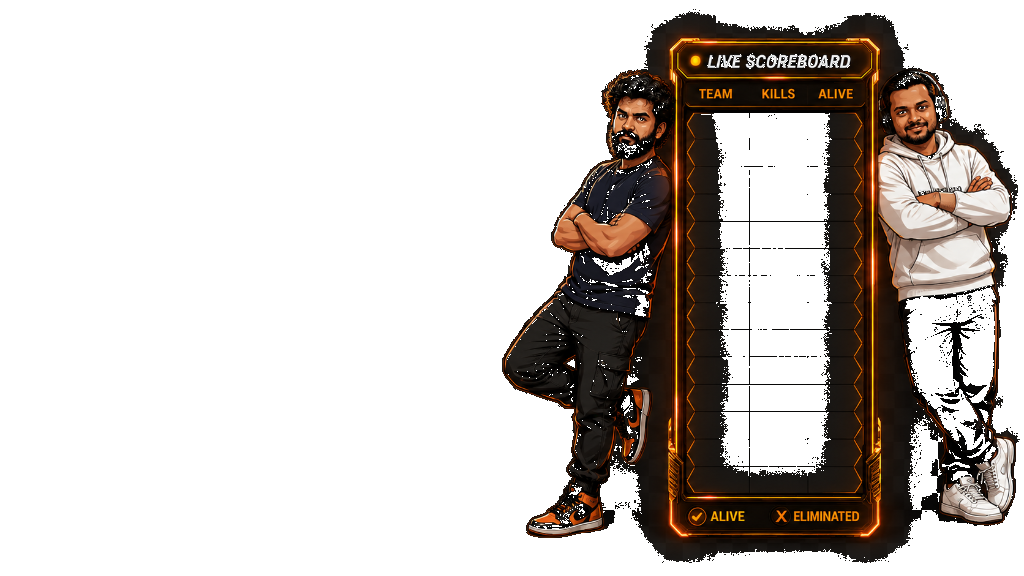
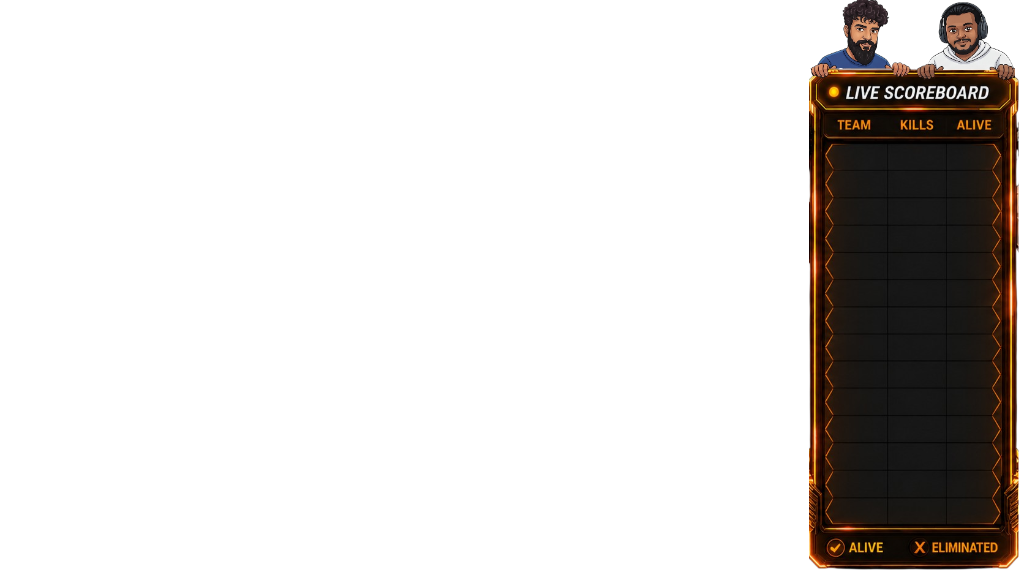
Replace scoreboard background with new narrow board image, update CSS and HTML to align elements

Changed region(s): [[0.4688, 0.0, 1.0, 1.0]]

diff --git a/ASSETS/templates/tournament/LIVE_SCOREBOARD.html b/ASSETS/templates/tournament/LIVE_SCOREBOARD.html
@@ -20,29 +20,37 @@
     /* ── Main Scoreboard Panel (Right Side) ────────────────────────── */
     #scorePanel {
       position: absolute;
-      top: 2vh;
-      right: 0.5vw;
-      transform: translateX(120%);
+      top: 0;
+      left: 0;
+      width: 100vw;
+      height: 100vh;
+      transform: translateX(100vw);
       opacity: 0;
-      width: 50.5vw;
-      height: 96vh;
       background: url('/media/scoreboard_bg.png') no-repeat;
-      background-size: 198.06% 100%;
-      background-position: right top;
+      background-size: 100% 100%;
+      background-position: center;
+      pointer-events: none;
+      display: block; /* No longer flex */
+      overflow: hidden;
+    }
+
+    /* ── Inner content container aligned over the panel graphic ── */
+    .panel-content {
+      position: absolute;
+      top: 13.5vh;
+      left: 80.2vw;
+      width: 18.4vw;
+      height: 80vh;
       display: flex;
       flex-direction: column;
       overflow: visible;
-      padding-top: 12.5vh; /* Push below peaking characters */
-      padding-left: 2.2vw;
-      padding-right: 2.2vw;
-      padding-bottom: 2.5vh;
     }
 
     /* ── Header ────────────────────────────────────────────────────── */
     #panelHeader {
       background: transparent;
       border-bottom: none;
-      padding: 0.8vh 0.5vw;
+      padding: 0.8vh 0;
       display: flex;
       align-items: center;
       justify-content: space-between;
@@ -51,7 +59,7 @@
 
     #panelTitle {
       font-family: 'Orbitron', sans-serif;
-      font-size: 1.35vw;
+      font-size: 1.0vw;
       font-weight: 900;
       color: #ffa040;
       letter-spacing: 2px;
@@ -63,15 +71,15 @@
       display: flex;
       align-items: center;
       gap: 6px;
-      font-size: 0.9vw;
+      font-size: 0.7vw;
       font-weight: 700;
       color: #ffa040;
       letter-spacing: 1px;
     }
 
     #liveDot {
-      width: 0.6vw;
-      height: 0.6vw;
+      width: 0.5vw;
+      height: 0.5vw;
       background: #ff8800;
       border-radius: 50%;
       box-shadow: 0 0 8px #ff8800;
@@ -86,8 +94,8 @@
     /* ── Column Headers (Team | Kills | Alive) ──────────────── */
     #colHeaders {
       display: grid;
-      grid-template-columns: 1fr 6vw 10vw;
-      padding: 0.8vh 0.5vw;
+      grid-template-columns: 1fr 2.5vw 4.5vw;
+      padding: 0.8vh 0;
       border-bottom: none;
       background: transparent;
       flex-shrink: 0;
@@ -95,7 +103,7 @@
 
     .col-hdr {
       font-family: 'Orbitron', sans-serif;
-      font-size: 1.1vw;
+      font-size: 0.8vw;
       font-weight: 700;
       color: #ffa040;
       letter-spacing: 1.5px;
@@ -119,8 +127,8 @@
 
     .team-row {
       display: grid;
-      grid-template-columns: 1fr 6vw 10vw;
-      padding: 0.6vh 0.5vw;
+      grid-template-columns: 1fr 2.5vw 4.5vw;
+      padding: 0.6vh 0;
       align-items: center;
       border-bottom: 1px solid rgba(255, 100, 0, 0.08);
       transition: background 0.4s ease;
@@ -141,7 +149,7 @@
     }
 
     .team-name-cell {
-      font-size: 1.25vw;
+      font-size: 0.95vw;
       font-weight: 700;
       color: #eeeeee;
       letter-spacing: 0.4px;
@@ -157,7 +165,7 @@
     }
 
     .kills-cell, .points-cell, .alive-cell {
-      font-size: 1.2vw;
+      font-size: 0.9vw;
       font-weight: 700;
       text-align: center;
       font-family: 'Orbitron', sans-serif;
@@ -178,12 +186,12 @@
     .alive-cell {
       color: #ffffff;
       letter-spacing: 1px;
-      font-size: 1.05vw;
+      font-size: 0.85vw;
     }
 
     .alive-cell.zero {
       color: #ff1744;
-      font-size: 1.05vw;
+      font-size: 0.85vw;
       letter-spacing: 1px;
       text-shadow: 0 0 8px rgba(255, 23, 68, 0.6);
     }
@@ -191,7 +199,7 @@
     /* ── Footer Stats ──────────────────────────────────────────────── */
     #panelFooter {
       border-top: none;
-      padding: 1.2vh 0.5vw 0 0.5vw;
+      padding: 1.2vh 0 0 0;
       display: flex;
       justify-content: space-between;
       align-items: center;
@@ -200,14 +208,14 @@
     }
 
     #aliveCount {
-      font-size: 1.15vw;
+      font-size: 0.85vw;
       color: #ffa040;
       font-weight: 700;
       letter-spacing: 1px;
     }
 
     #elimCount {
-      font-size: 1.15vw;
+      font-size: 0.85vw;
       color: #ffa040;
       font-weight: 700;
       letter-spacing: 1px;
@@ -788,26 +796,28 @@
 
   <!-- RIGHT SIDE SCOREBOARD PANEL -->
   <div id="scorePanel">
-    <div id="panelHeader">
-      <div id="panelTitle">🟠 LIVE SCOREBOARD</div>
-      <div id="liveIndicator">
-        <div id="liveDot"></div>
-        LIVE
+    <div class="panel-content">
+      <div id="panelHeader">
+        <div id="panelTitle">🟠 LIVE SCOREBOARD</div>
+        <div id="liveIndicator">
+          <div id="liveDot"></div>
+          LIVE
+        </div>
       </div>
-    </div>
 
-    <!-- 3 Columns: TEAM | KILLS | ALIVE -->
-    <div id="colHeaders">
-      <div class="col-hdr name">TEAM</div>
-      <div class="col-hdr">KILLS</div>
-      <div class="col-hdr">ALIVE</div>
-    </div>
+      <!-- 3 Columns: TEAM | KILLS | ALIVE -->
+      <div id="colHeaders">
+        <div class="col-hdr name">TEAM</div>
+        <div class="col-hdr">KILLS</div>
+        <div class="col-hdr">ALIVE</div>
+      </div>
 
-    <div id="teamList"></div>
+      <div id="teamList"></div>
 
-    <div id="panelFooter">
-      <div id="aliveCount">✓ ALIVE: —</div>
-      <div id="elimCount">X ELIMINATED: —</div>
+      <div id="panelFooter">
+        <div id="aliveCount">✓ ALIVE: —</div>
+        <div id="elimCount">X ELIMINATED: —</div>
+      </div>
     </div>
   </div>
 
